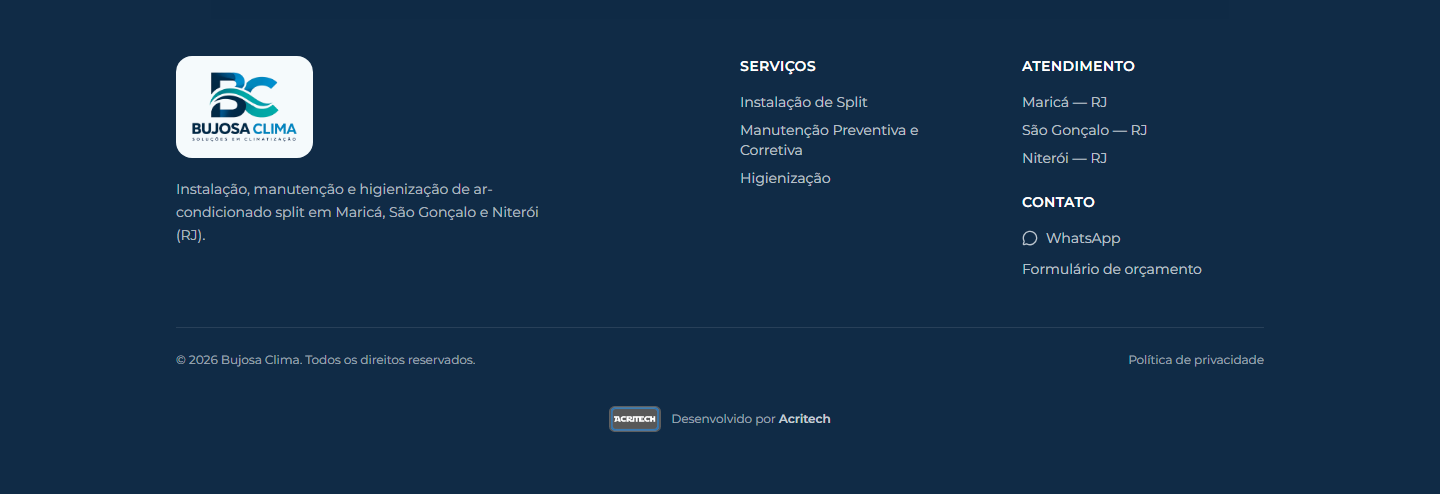
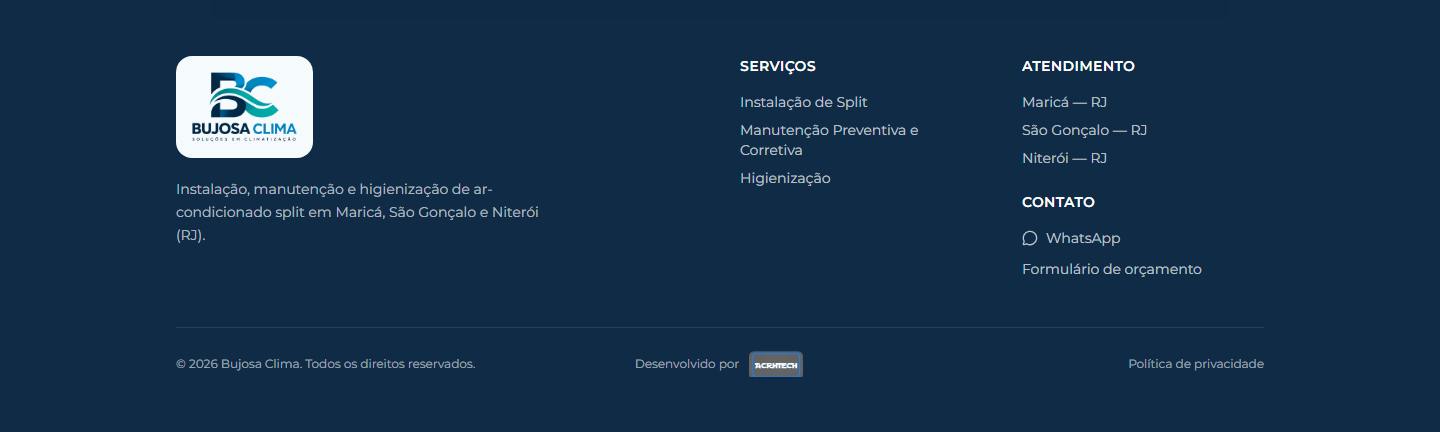
feat: credito da Acritech no padrao dos projetos da empresa, na linha do copyright
- replica o padrao ja usado em beatriz-centro-cirurgico (AcritechCredit + classes
  .acritech-badge), com o logotipo oficial em PNG transparente recortado por CSS
- asset copiado sem alteracao (500x500, sha256 documentado)
- credito centralizado na mesma linha do copyright e do link de privacidade
  (grid 1fr/auto/1fr no desktop, empilhado e centralizado no celular)
- remove a versao anterior (logo em pastilha cinza) e o script de derivacao
- docs: credito-acritech.md reescrito, decisoes e README atualizados

diff --git a/src/components/ui/AcritechCredit.tsx b/src/components/ui/AcritechCredit.tsx
@@ -1,38 +1,39 @@
 /**
  * Crédito institucional da Acritech.
  *
- * Proposta: usa o logotipo oficial da Acritech (arquivo original apenas
- * redimensionado por `scripts/prepare-acritech-credit.py`, sem redesenho e sem
- * alteração de cores) acompanhado do texto "Desenvolvido por Acritech", em
- * linha discreta e centralizada no rodapé. Não existe, nos projetos locais da
- * Acritech, um componente de crédito pronto para reutilizar — por isso esta
- * assinatura aguarda aprovação antes de ser considerada definitiva.
+ * Mesmo padrão já usado nos projetos da Acritech (referência:
+ * `C:\dev\beatriz-centro-cirurgico\src\components\AcritechCredit.jsx`): o texto
+ * "Desenvolvido por" seguido do logotipo oficial em PNG transparente, recortado
+ * por CSS (`.acritech-badge*` em `src/index.css`) para mostrar apenas a
+ * assinatura. O arquivo do logotipo é usado sem alteração.
  */
-export function AcritechCredit() {
+const ACRITECH_URL = 'https://acritech.com.br';
+const ACRITECH_LOGO = '/brand/acritech-logo-transparent.png';
+
+type AcritechCreditProps = {
+  theme?: 'dark' | 'light';
+  mode?: 'standard' | 'compact';
+  href?: string;
+  logoSrc?: string;
+};
+
+export function AcritechCredit({
+  theme = 'dark',
+  mode = 'standard',
+  href = ACRITECH_URL,
+  logoSrc = ACRITECH_LOGO,
+}: AcritechCreditProps) {
   return (
     <a
-      href="https://acritech.com.br/"
+      className={`acritech-badge acritech-badge--${theme} acritech-badge--${mode}`}
+      href={href}
       target="_blank"
       rel="noopener noreferrer"
-      className="inline-flex items-center gap-2.5 rounded-full px-3 py-1.5 text-xs text-ice/60 transition hover:text-ice"
+      aria-label="Desenvolvido pela Acritech (abre em uma nova aba)"
     >
-      <picture>
-        <source srcSet="/brand/acritech-logo.avif" type="image/avif" />
-        <source srcSet="/brand/acritech-logo.webp" type="image/webp" />
-        <img
-          src="/brand/acritech-logo.png"
-          alt=""
-          width={72}
-          height={36}
-          style={{ height: 26, width: 'auto' }}
-          className="block rounded-[0.35rem]"
-          loading="lazy"
-          decoding="async"
-        />
-      </picture>
-      <span>
-        Desenvolvido por <span className="font-semibold text-ice/80">Acritech</span>
-        <span className="sr-only"> — Produtos e Soluções Tecnológicas</span>
+      <span>Desenvolvido por</span>
+      <span className="acritech-badge__logo">
+        <img src={logoSrc} alt="Acritech" loading="lazy" decoding="async" />
       </span>
     </a>
   );

diff --git a/src/index.css b/src/index.css
@@ -67,3 +67,73 @@
     }
   }
 }
+
+@layer components {
+  /*
+   * Crédito institucional da Acritech — mesmo padrão usado nos projetos da
+   * Acritech. O PNG transparente (500×500) tem a assinatura numa faixa
+   * central; a janela fixa abaixo recorta apenas essa faixa, sem alterar o
+   * arquivo original. Única adaptação em relação à referência: o alinhamento
+   * vertical fica com o contêiner (`items-center`), sem `self-*`.
+   */
+  .acritech-badge {
+    display: inline-flex;
+    align-items: center;
+    gap: 0.5rem;
+    min-height: 2.5rem;
+    flex: none;
+    white-space: nowrap;
+    padding-inline: 0.25rem;
+    margin: -8px -4px;
+    font-size: inherit;
+    line-height: inherit;
+    transition: color 200ms ease;
+  }
+
+  .acritech-badge--dark {
+    color: currentColor;
+  }
+
+  .acritech-badge--light {
+    color: #303030;
+  }
+
+  .acritech-badge--dark:hover,
+  .acritech-badge--dark:focus-visible {
+    color: rgb(255 255 255 / 0.75);
+  }
+
+  .acritech-badge--light:hover,
+  .acritech-badge--light:focus-visible {
+    color: #0f172a;
+  }
+
+  .acritech-badge__logo {
+    display: block;
+    flex: none;
+    overflow: hidden;
+    width: 66px;
+    height: 30px;
+  }
+
+  .acritech-badge__logo img {
+    display: block;
+    width: 70.5px;
+    max-width: none;
+    height: 70.5px;
+    transform: translate(-2.25px, -18.75px);
+  }
+
+  .acritech-badge--compact .acritech-badge__logo,
+  .acritech-badge--standard .acritech-badge__logo {
+    width: 58px;
+    height: 26px;
+  }
+
+  .acritech-badge--compact .acritech-badge__logo img,
+  .acritech-badge--standard .acritech-badge__logo img {
+    width: 62px;
+    height: 62px;
+    transform: translate(-2px, -16.5px);
+  }
+}

diff --git a/src/components/layout/SiteFooter.tsx b/src/components/layout/SiteFooter.tsx
@@ -77,17 +77,21 @@ export function SiteFooter() {
           </div>
         </div>
 
-        <div className="mt-12 flex flex-col gap-3 border-t border-white/10 pt-6 text-xs text-ice/60 sm:flex-row sm:items-center sm:justify-between">
-          <p>
+        <div className="mt-12 grid gap-4 border-t border-white/10 pt-6 text-xs text-ice/60 sm:grid-cols-[1fr_auto_1fr] sm:items-center sm:gap-6">
+          <p className="text-center sm:text-left">
             © {year} {site.name}. Todos os direitos reservados.
           </p>
-          <Link className="transition hover:text-white" to="/privacidade">
+
+          <div className="flex items-center justify-center">
+            <AcritechCredit theme="dark" mode="standard" />
+          </div>
+
+          <Link
+            className="text-center transition hover:text-white sm:justify-self-end"
+            to="/privacidade"
+          >
             Política de privacidade
           </Link>
-        </div>
-
-        <div className="mt-8 flex justify-center">
-          <AcritechCredit />
         </div>
       </Container>
     </footer>

diff --git a/docs/credito-acritech.md b/docs/credito-acritech.md
@@ -1,65 +1,73 @@
-# Crédito institucional da Acritech (proposta)
+# Crédito institucional da Acritech
 
-## O que foi inspecionado
+## Padrão utilizado
 
-Inspeção **somente leitura** dos projetos locais da Acritech:
+O crédito segue o **mesmo padrão já usado nos projetos da Acritech**, apontado
+por você: `C:\dev\beatriz-centro-cirurgico`, arquivo
+`src/components/AcritechCredit.jsx` com as classes `.acritech-badge*` de
+`src/index.css`.
 
-| Projeto | Resultado |
-| --- | --- |
-| `C:\dev\Acritech` (site institucional) | Rodapé em `src/components/Footer.jsx` com logo, descrição, páginas e bloco de contato — **não** existe linha de crédito "Desenvolvido por" |
-| `C:\dev\acritech-agenda` | Nenhum componente de crédito institucional |
-| `C:\dev\acritech-reviews` | Nenhum componente de crédito institucional (apenas rodapé de privacidade em HTML) |
+Esse padrão não existe em `C:\dev\Acritech`, `C:\dev\acritech-agenda` nem
+`C:\dev\acritech-reviews` — a referência do Beatriz Centro Cirúrgico é a que
+está viva e foi replicada aqui. A inspeção foi somente leitura; nada foi
+alterado naquele projeto.
 
-Ou seja: **não existe um padrão de crédito pronto para reutilizar**. Como o
-prompt pede aprovação antes de criar uma assinatura diferente, o que está no
-rodapé é uma **proposta**.
+O componente é o mesmo: um link para `https://acritech.com.br` com o texto
+"Desenvolvido por" seguido do logotipo oficial, com as props `theme`
+(`dark`/`light`) e `mode` (`standard`/`compact`).
 
-## Identidade da Acritech usada como base
+## Arquivo do logotipo
 
 | Item | Valor |
 | --- | --- |
-| Logotipo oficial | `C:\dev\Acritech\src\assets\logo-acritech.png` (também em `public/logo-acritech.png`, arquivos idênticos) |
-| Dimensões originais | 4268 × 2134 px, RGBA |
[1 lines of base64/hex data omitted]
-| Cor de marca | azul `#337ab7` (borda do logotipo, conforme `tailwind.config.js` e `index.css`) |
-| Cinza institucional | `#565656` (fundo do logotipo e do rodapé do site da Acritech) |
-| Tipografia | Inter (site institucional) |
-| Contato oficial | WhatsApp `+55 (21) 98417-3233`, `contato@acritech.com.br`, `https://acritech.com.br` |
+| Arquivo usado | `public/brand/acritech-logo-transparent.png` |
+| Origem | `C:\dev\beatriz-centro-cirurgico\public\brand\acritech-logo-transparent.png` |
+| Dimensões | 500 × 500 px, RGBA (fundo transparente) |
+| Área visível da arte | 436 × 224 px (faixa central) |
[1 lines of base64/hex data omitted]
 
-O arquivo original **não foi alterado**: a peça do crédito é gerada por
-`scripts/prepare-acritech-credit.py`, que apenas lê o PNG oficial e grava uma
-cópia redimensionada (360 px de largura) em `public/brand/acritech-logo.*`
-(PNG, WebP e AVIF). Nenhum desenho, cor ou proporção foi modificado.
+O arquivo é uma cópia fiel: nenhum redesenho, nenhuma alteração de cor e
+nenhuma conversão de formato. O recorte da assinatura é feito por CSS
+(`.acritech-badge__logo`), exatamente como no projeto de referência, então o PNG
+original permanece intacto.
 
-## Proposta aplicada
+## Onde está no projeto
 
-Linha discreta, centralizada na parte inferior do rodapé, abaixo do copyright
-e do link de privacidade:
+- `src/components/ui/AcritechCredit.tsx` — o componente.
+- `src/index.css`, bloco `@layer components` — classes `.acritech-badge`,
+  `.acritech-badge--dark`, `.acritech-badge--light`, `.acritech-badge--standard`,
+  `.acritech-badge--compact` e `.acritech-badge__logo`.
 
-- logotipo oficial da Acritech com 26 px de altura, cantos levemente
-  arredondados para acompanhar o formato original;
-- texto "Desenvolvido por **Acritech**" em corpo pequeno, na mesma escala das
-  demais linhas do rodapé;
-- link para `https://acritech.com.br/` abrindo em nova aba, com nome acessível
-  completo ("Desenvolvido por Acritech — Produtos e Soluções Tecnológicas");
-- o logotipo é decorativo para leitores de tela (`alt=""`), porque o nome está
-  no texto do link.
+Única adaptação em relação à referência: o alinhamento vertical do selo fica
+com o contêiner (`items-center`), sem as classes `self-start sm:self-auto`, que
+existiam para o rodapé daquele projeto. Medidas, recorte e transição de cor são
+idênticos.
 
-Sobre a tipografia: o nome "ACRITECH" já vive dentro do arquivo do logotipo,
-que é usado sem alteração. O texto ao redor usa a tipografia do próprio site
-da Bujosa Clima, como acontece no rodapé do site da Acritech, que usa Inter em
-todo o conteúdo e reserva a marca para o arquivo do logotipo.
+## Posição no rodapé
 
-## Alternativas, se a proposta não for aprovada
+O crédito fica **na mesma linha** do copyright e do link de política de
+privacidade, centralizado entre os dois:
 
-1. Somente texto, sem logotipo: "Desenvolvido por Acritech", em azul `#337ab7`.
-2. Logotipo apenas, sem texto, com `aria-label`.
-3. Manter o crédito no rodapé do site da Acritech como padrão e replicar
-   exatamente aquele bloco (logo + nome completo "Acritech Produtos e Soluções
-   Tecnológicas").
-4. Remover o crédito por completo (basta apagar o bloco e o componente).
+```
+© 2026 Bujosa Clima. Todos os direitos reservados.    Desenvolvido por [ACRITECH]    Política de privacidade
+```
 
-## Situação
+No desktop a linha usa `grid-cols-[1fr_auto_1fr]`: copyright à esquerda,
+crédito na coluna central e link de privacidade à direita — assim o crédito
+fica centralizado em relação à página, e não apenas no espaço livre. No celular
+os três itens ficam empilhados e centralizados.
 
-Aguardando aprovação. Enquanto não houver confirmação, o crédito permanece
-como está (discreto, legível e sem alterar a marca).
+Medições feitas no Chrome a 1440 px: centro do crédito em 720 px com a página
+centralizada em 720 px, na mesma linha do copyright e do link (o selo é mais
+alto por causa da área de toque de 40 px). A 390 px o crédito fica centralizado
+(195 de 195) e nada fica escondido atrás do botão fixo de WhatsApp.
+
+## Como trocar
+
+```tsx
+<AcritechCredit theme="dark" mode="standard" />
+```
+
+- `theme="light"` usa o tom escuro, para rodapés claros;
+- `mode="compact"` reduz o selo;
+- `href` e `logoSrc` podem ser sobrescritos por prop, como no padrão original.

diff --git a/README.md b/README.md
@@ -18,6 +18,7 @@ rastreadores e sem serviços pagos.
 | Formulário | react-hook-form + zod |
 | Fonte | Montserrat Variable auto-hospedada (`@fontsource-variable/montserrat`) |
 | Carrossel de avaliações | componente próprio, sem biblioteca |
+| Crédito institucional | padrão já usado nos projetos da Acritech (`docs/credito-acritech.md`) |
 | Testes | Vitest (WhatsApp, depoimentos e dados estruturados) |
 | Publicação | Docker multi-stage (Node → Nginx) |
 
@@ -42,7 +43,6 @@ docs/
   validacao/    capturas de tela das verificações responsivas
 scripts/
   extract-identity-assets.py   gera os derivados da identidade visual
-  prepare-acritech-credit.py   deriva a peça do crédito da Acritech
   vite-plugin-seo.ts           canonical, Open Graph, JSON-LD, sitemap e robots
 ```
 
@@ -194,8 +194,9 @@ Capturas em `docs/validacao/`.
 ## Dados ainda pendentes do cliente
 
 1. Aprovação da extração da identidade visual (`docs/identidade/DERIVADOS.md`).
-2. Aprovação do crédito institucional da Acritech (`docs/credito-acritech.md`) —
-   não existe componente de crédito nos projetos locais para reutilizar.
+2. Confirmação visual do crédito da Acritech na mesma linha do copyright e do
+   link de privacidade (implementado no padrão dos projetos da Acritech, ver
+   `docs/credito-acritech.md`).
 3. Confirmação de que os 20 depoimentos são de clientes reais e podem ser
    publicados. Eles foram transcritos exatamente como enviados; nenhum foi
    criado pelo Codex.

diff --git a/docs/decisoes.md b/docs/decisoes.md
@@ -142,13 +142,17 @@ componentes.
 
 ## 13. Crédito institucional da Acritech
 
-Inspeção somente leitura dos três projetos locais da Acritech não encontrou
-nenhum componente de crédito "Desenvolvido por" para reutilizar. Como o pedido
-era apresentar uma proposta antes de criar uma assinatura diferente, o rodapé
-traz uma proposta discreta que usa o logotipo oficial (arquivo apenas
-redimensionado, sem redesenho nem alteração de cores) e o texto "Desenvolvido
-por Acritech" com link para `https://acritech.com.br/`. Alternativas e a
-situação da aprovação estão em `docs/credito-acritech.md`.
+O padrão de crédito já usado pela Acritech foi localizado em
+`C:\dev\beatriz-centro-cirurgico` (`AcritechCredit.jsx` + classes
+`.acritech-badge*`) e replicado aqui: "Desenvolvido por" + logotipo oficial em
+PNG transparente, recortado por CSS. O arquivo do logotipo é copiado sem
+nenhuma alteração e o componente mantém as props do original (`theme`, `mode`,
+`href`, `logoSrc`). Detalhes, hashes e medições em
+`docs/credito-acritech.md`.
+
+Posicionamento: na mesma linha do copyright e do link de política de
+privacidade, centralizado em relação à página (`grid-cols-[1fr_auto_1fr]`),
+como pedido nesta revisão.
 
 ## 14. Carrossel de avaliações escrito à mão
 
